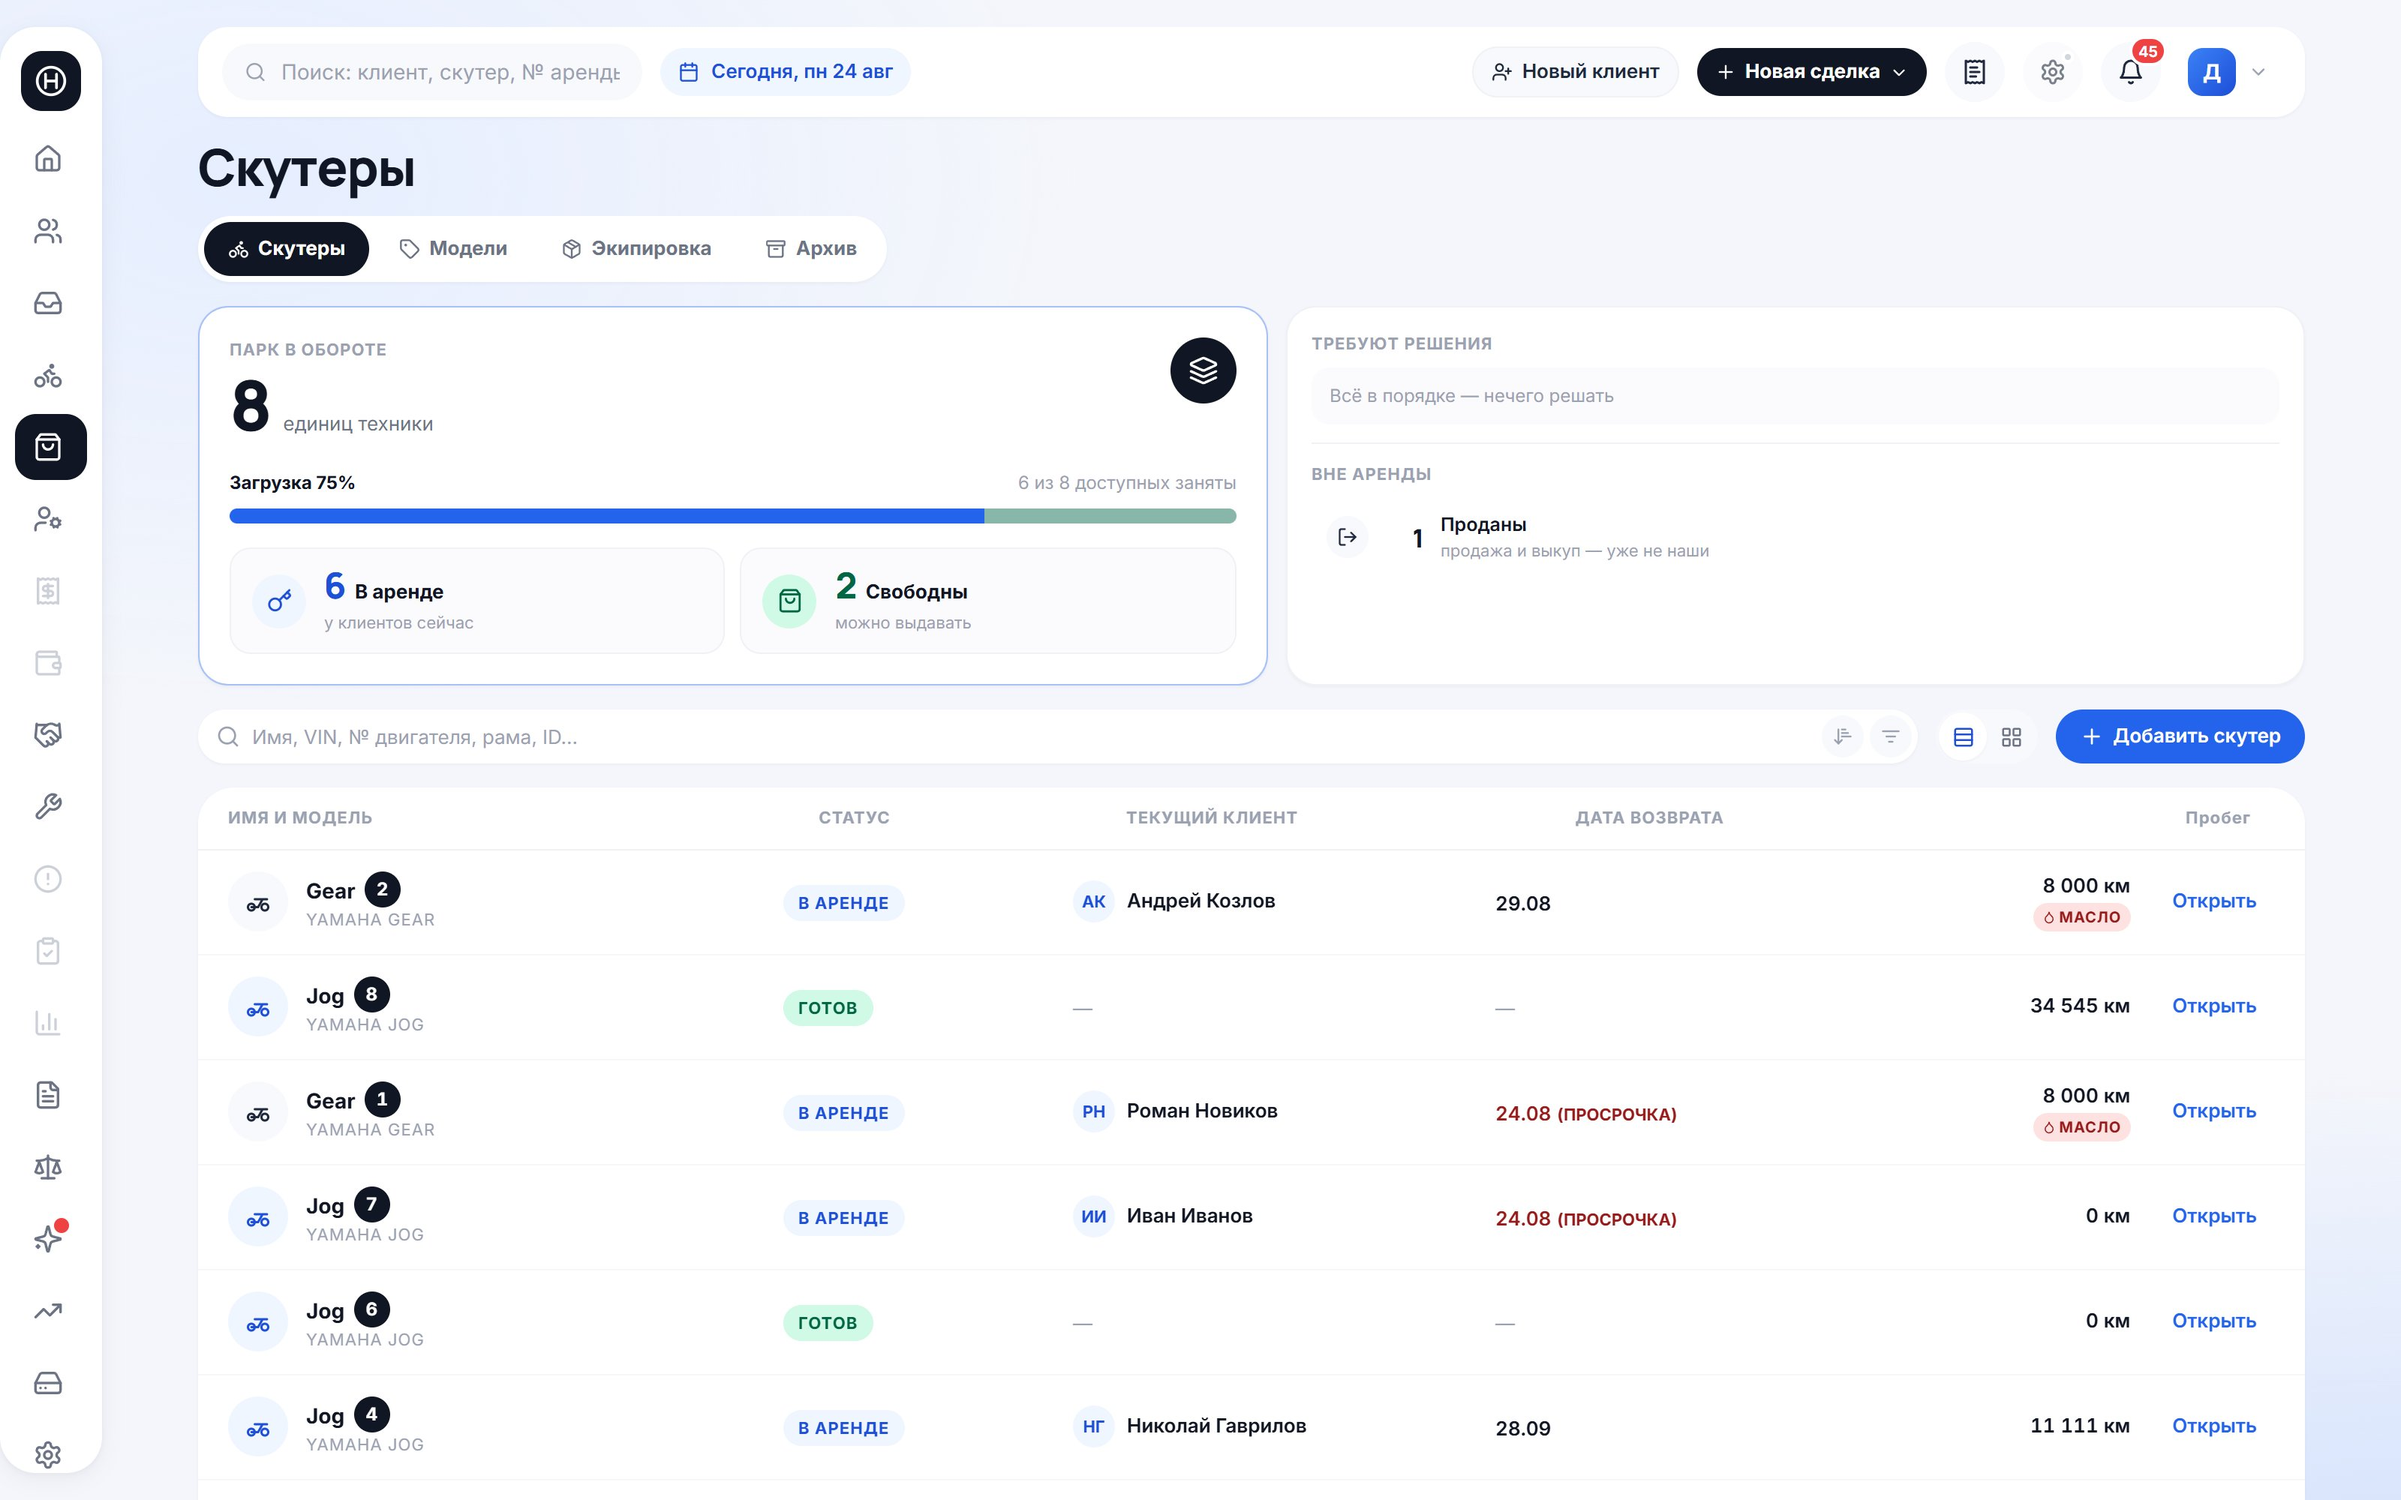
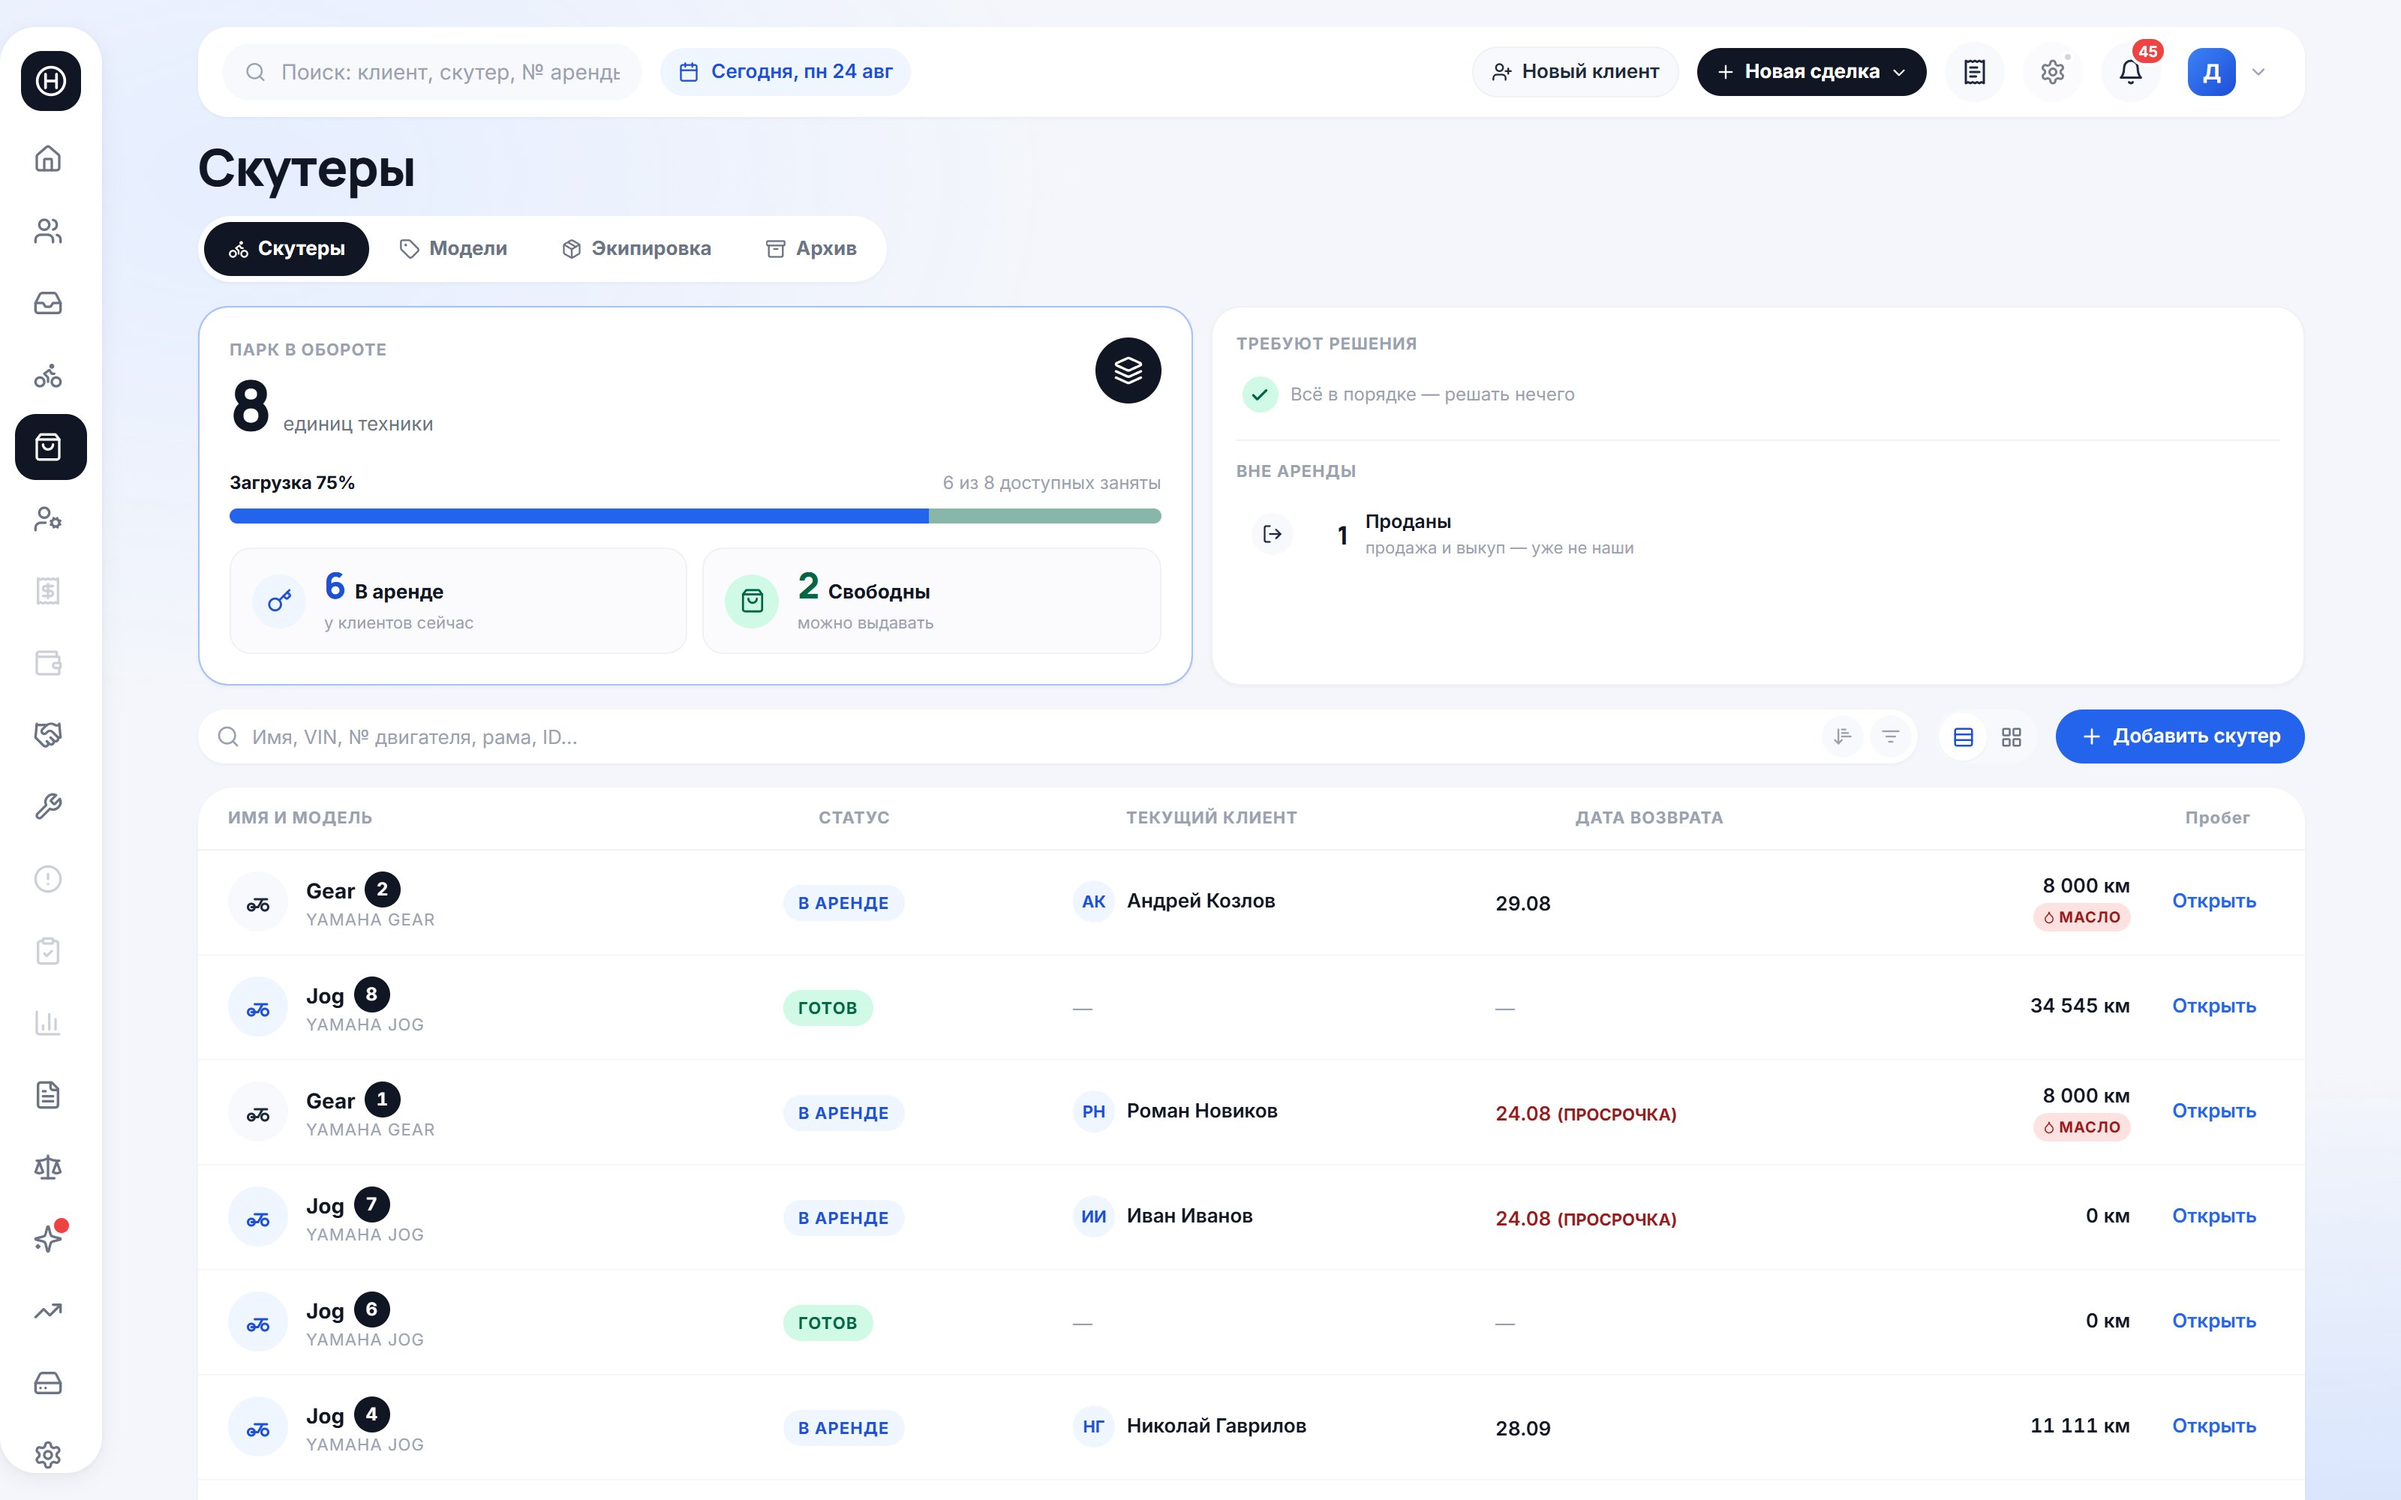
docs(развитие): пункты 13, 26 — описание переработанного блока парка и «Проданы»

Changed region(s): [[0.4375, 0.217, 0.6562, 0.279], [0.4062, 0.31, 0.6875, 0.372], [0.2812, 0.341, 0.4062, 0.434]]

diff --git a/apps/web/src/data/progress.ts b/apps/web/src/data/progress.ts
@@ -572,9 +572,9 @@ export const progressItems: ProgressItem[] = [
     story: [
       {
         text:
-          "Открываем «Скутеры»: сверху — сводка арендного пространства одним взглядом: сколько всего техники в парке, сколько готово к выдаче, сколько в активной аренде, на ремонте и в ДТП. Каждый счётчик — это фильтр списка. Рядом с поиском — занятость арендных мест «X из N» (пункт 15).",
+          "Открываем «Скутеры»: сверху — сводка арендного пространства одним взглядом. Слева карта парка: сколько техники в обороте и как она загружена, отдельно «В аренде» и «Свободны». Справа — что требует решения (не распределены, ремонт, ДТП) и что вне аренды (разборка, продажа). Каждый счётчик — это фильтр списка: кликнул и видишь именно эту технику.",
         imgs: [
-          { src: "/progress/p13-1-counters-crop.png", label: "Показатели аренды на странице Скутеры" },
+          { src: "/progress/p26-2-kpi-crop.png", label: "Сводка арендного пространства" },
           { src: "/progress/p15-1-fleet.jpg", label: "Общий план страницы" },
         ],
       },
@@ -792,11 +792,18 @@ export const progressItems: ProgressItem[] = [
       {
         tag: "fix",
         text:
-          "Как стало: «Всего скутеров» = только техника в обороте, подпись так и говорит — «в обороте, без выбывших». Проверено вживую: перевели одну единицу в «Продан» — счётчик парка сразу стал 8 вместо 9, а рядом появилась плитка «Выбыли · 1». Проданная и переданная в выкуп собрана на этой плитке — она подписана «проданы / в выкупе — не в парке» и появляется, только если такая техника есть. Кликом по плитке смотрим её список, в обычном списке парка её больше нет. На дашборде панель парка тоже перестала рисовать плитки выбывшей техники. На телефоне — то же самое: отдельный чип «Выбыли», в остальных списках её нет.",
+          "Как стало: «Парк в обороте» считает только ту технику, что у нас реально есть. Проверено вживую: перевели одну единицу в «Продан» — счётчик парка сразу стал 8 вместо 9, а справа появилась строка «Проданы · 1» с подписью «продажа и выкуп — уже не наши». В обычном списке парка проданной техники больше нет, смотреть её — кликом по этой строке. На дашборде панель парка тоже перестала рисовать плитки выбывшей техники. На телефоне — то же самое: отдельный чип, в остальных списках её нет.",
         imgs: [
-          { src: "/progress/p26-2-kpi-crop.png", label: "Счётчики: 8 в парке + отдельная плитка «Выбыли»" },
+          { src: "/progress/p26-2-kpi-crop.png", label: "8 в обороте, проданная — отдельной строкой" },
           { src: "/progress/p26-1-fleet-gone.jpg", label: "Общий план: проданной техники в списке нет" },
-          { src: "/progress/p26-3-gone-list.jpg", label: "Клик по «Выбыли» — список выбывшей техники" },
+        ],
+      },
+      {
+        tag: "fix",
+        text:
+          "Заодно переработали сам блок показателей — заказчик сказал, что девять одинаковых карточек в ряд «сжаты, взгляд теряется». Теперь в нём есть иерархия. Слева главная карта: сколько техники в обороте, полоса загрузки (синее — занято клиентами, зелёное — свободно) с процентом и расшифровкой «6 из 8 доступных заняты», под ней две метрики, которыми живёт день, — «В аренде» и «Свободны». Справа — компактные строки по группам: «Требуют решения» (не распределены, ремонт, ДТП — со счётчиком группы) и «Вне аренды» (разборка, продаются, проданы). Пустые статусы не показываются вовсе, а если решать нечего — так и написано, с зелёной галочкой. Всё осталось кликабельным: это по-прежнему фильтры списка.",
+        imgs: [
+          { src: "/progress/p26-4-overview-busy.png", label: "Когда есть проблемные статусы — они собраны справа" },
         ],
       },
       {
